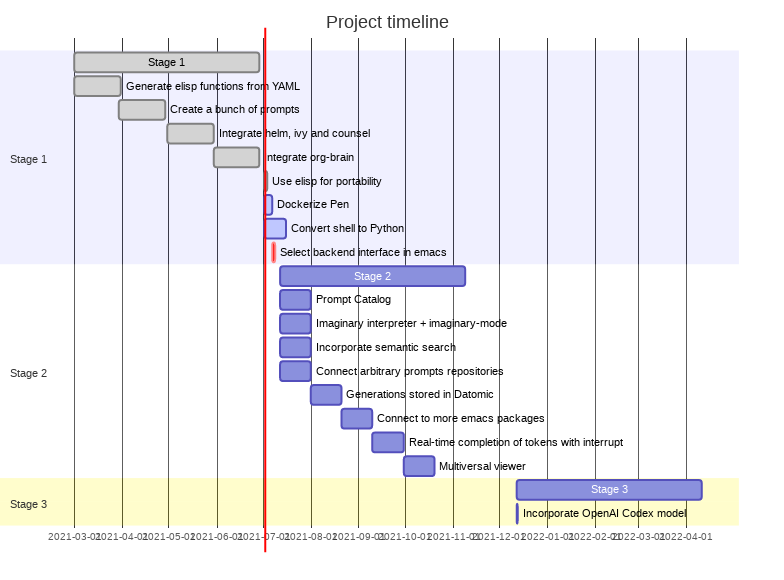
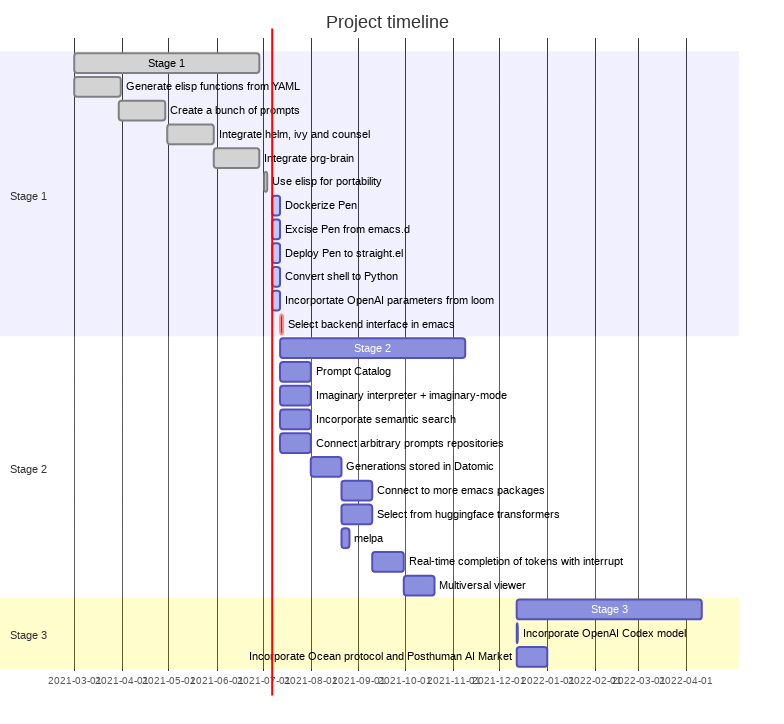
07.07.21

diff --git a/public/posts/pen/index.html b/public/posts/pen/index.html
@@ -41,7 +41,7 @@ https://generative.ink/posts/pen/  Pen facilitates the creation, development, di
 https://generative.ink/posts/pen/  Pen facilitates the creation, development, discovery and usage of prompts to a Language Model such as GPT-3 and GPT-j.
 1 2 3 4 5 6 7 8 9 10 11 12 13 14 15 16 17 18 19 20 21 22  Imagine that you hold a powerful and versatile pen, whose ink flows forth in branching variations of all possible expressions: every story, every theory, poem and every lie that humanity has ever told, and the vast interstices of their latent space."><meta itemprop="datePublished" content="2021-07-02T00:00:00&#43;12:00" />
 <meta itemprop="dateModified" content="2021-07-02T00:00:00&#43;12:00" />
-<meta itemprop="wordCount" content="493"><meta itemprop="image" content="http://semiosis.github.io/"/>
+<meta itemprop="wordCount" content="351"><meta itemprop="image" content="http://semiosis.github.io/"/>
 <meta itemprop="keywords" content="" />
 <meta name="twitter:card" content="summary_large_image"/>
 <meta name="twitter:image" content="http://semiosis.github.io/"/>
@@ -148,7 +148,7 @@ https://generative.ink/posts/pen/  Pen facilitates the creation, development, di
           <circle cx="12" cy="12" r="10"></circle>
           <polyline points="12 6 12 12 16 14"></polyline>
         </svg>
-        3 minutes
+        2 minutes
 
         
       </p>
@@ -242,36 +242,16 @@ in collaboration with GPT-3 using <a href="https://github.com/socketteer/loom">L
 </li>
 </ul>
 <p>I credit <code>|:ϝ∷¦ϝ</code> for writing this into existence!</p>
-<pre><code class="language-mermaid" data-lang="mermaid">gantt
-        title Project timeline
-        dateFormat  YYYY-MM-DD
-        section Stage 1
-        Stage 1  :done, :s1, 2021-03-01, 120d
-        Generate elisp functions from YAML  :done,  :a1, 2021-03-01, 30d
-        Create a bunch of prompts  :done,   :a3, 2021-03-30, 30d
-        Integrate helm, ivy and counsel  :done,   :a4, 2021-04-30, 30d
-        Integrate org-brain  :done,   :a5, 2021-05-30, 30d
-        Use elisp for portability :done,  :b2, 2021-07-02, 2d
-        Dockerize Pen : active, b3, after b2 , 5d
-        Convert shell to Python : active, b4, after b2 , 14d
-        Select backend interface in emacs :crit, after b3, 2d
-        section Stage 2
-        Stage 2  :s2, 2021-07-12, 120d
-        Prompt Catalog : b6a, 2021-07-12, 20d
-        Imaginary interpreter + imaginary-mode : b11, 2021-07-12, 20d
-        Incorporate semantic search : b12, 2021-07-12, 20d
-        Connect arbitrary prompts repositories : b6, 2021-07-12, 20d
-        Generations stored in Datomic : b7, after b6, 20d
-        Connect to more emacs packages : b8, after b7 , 20d
-        Real-time completion of tokens with interrupt : b9, after b8, 20d
-        Multiversal viewer : b10, after b9, 20d
-        section Stage 3
-        Stage 3  :s3, 2021-12-12, 120d
-        Incorporate OpenAI Codex model : c1, 2021-12-12, 1d
-</code></pre><figure>
+<figure>
     <img src="/ox-hugo/pen-project-timeline.png"/> 
 </figure>
 
+<h2 id="journal">Journal</h2>
+<h3 id="07-dot-07-dot-21">07.07.21</h3>
+<p>The project has been excised from my main <code>emacs.d</code>.</p>
+<p>Now the plan is to incorporate the backend of
+<code>loom</code> so the completions are faster and there
+is less reliance on shell scripts.</p>
 
       </div>
     </article>
@@ -290,7 +270,7 @@ in collaboration with GPT-3 using <a href="https://github.com/socketteer/loom">L
           <line x1="16" y1="17" x2="8" y2="17"></line>
           <polyline points="10 9 9 9 8 9"></polyline>
         </svg>
-        493 Words
+        351 Words
       </p>
 
       <p>

diff --git a/content/posts/pen.md b/content/posts/pen.md
@@ -2,7 +2,7 @@
 title = "Pen"
 author = ["Shane Mulligan"]
 date = 2021-07-02T00:00:00+12:00
-keywords = ["gpt", "eleutherai"]
+keywords = ["gpt", "eleutherai", "huggingface"]
 draft = false
 +++
 
@@ -61,33 +61,16 @@ in collaboration with GPT-3 using [Loom](https://github.com/socketteer/loom).
 
 I credit `|:ϝ∷¦ϝ` for writing this into existence!
 
-```mermaid
-gantt
-        title Project timeline
-        dateFormat  YYYY-MM-DD
-        section Stage 1
-        Stage 1  :done, :s1, 2021-03-01, 120d
-        Generate elisp functions from YAML  :done,  :a1, 2021-03-01, 30d
-        Create a bunch of prompts  :done,   :a3, 2021-03-30, 30d
-        Integrate helm, ivy and counsel  :done,   :a4, 2021-04-30, 30d
-        Integrate org-brain  :done,   :a5, 2021-05-30, 30d
-        Use elisp for portability :done,  :b2, 2021-07-02, 2d
-        Dockerize Pen : active, b3, after b2 , 5d
-        Convert shell to Python : active, b4, after b2 , 14d
-        Select backend interface in emacs :crit, after b3, 2d
-        section Stage 2
-        Stage 2  :s2, 2021-07-12, 120d
-        Prompt Catalog : b6a, 2021-07-12, 20d
-        Imaginary interpreter + imaginary-mode : b11, 2021-07-12, 20d
-        Incorporate semantic search : b12, 2021-07-12, 20d
-        Connect arbitrary prompts repositories : b6, 2021-07-12, 20d
-        Generations stored in Datomic : b7, after b6, 20d
-        Connect to more emacs packages : b8, after b7 , 20d
-        Real-time completion of tokens with interrupt : b9, after b8, 20d
-        Multiversal viewer : b10, after b9, 20d
-        section Stage 3
-        Stage 3  :s3, 2021-12-12, 120d
-        Incorporate OpenAI Codex model : c1, 2021-12-12, 1d
-```
-
 {{< figure src="/ox-hugo/pen-project-timeline.png" >}}
+
+
+## Journal {#journal}
+
+
+### 07.07.21 {#07-dot-07-dot-21}
+
+The project has been excised from my main `emacs.d`.
+
+Now the plan is to incorporate the backend of
+`loom` so the completions are faster and there
+is less reliance on shell scripts.
